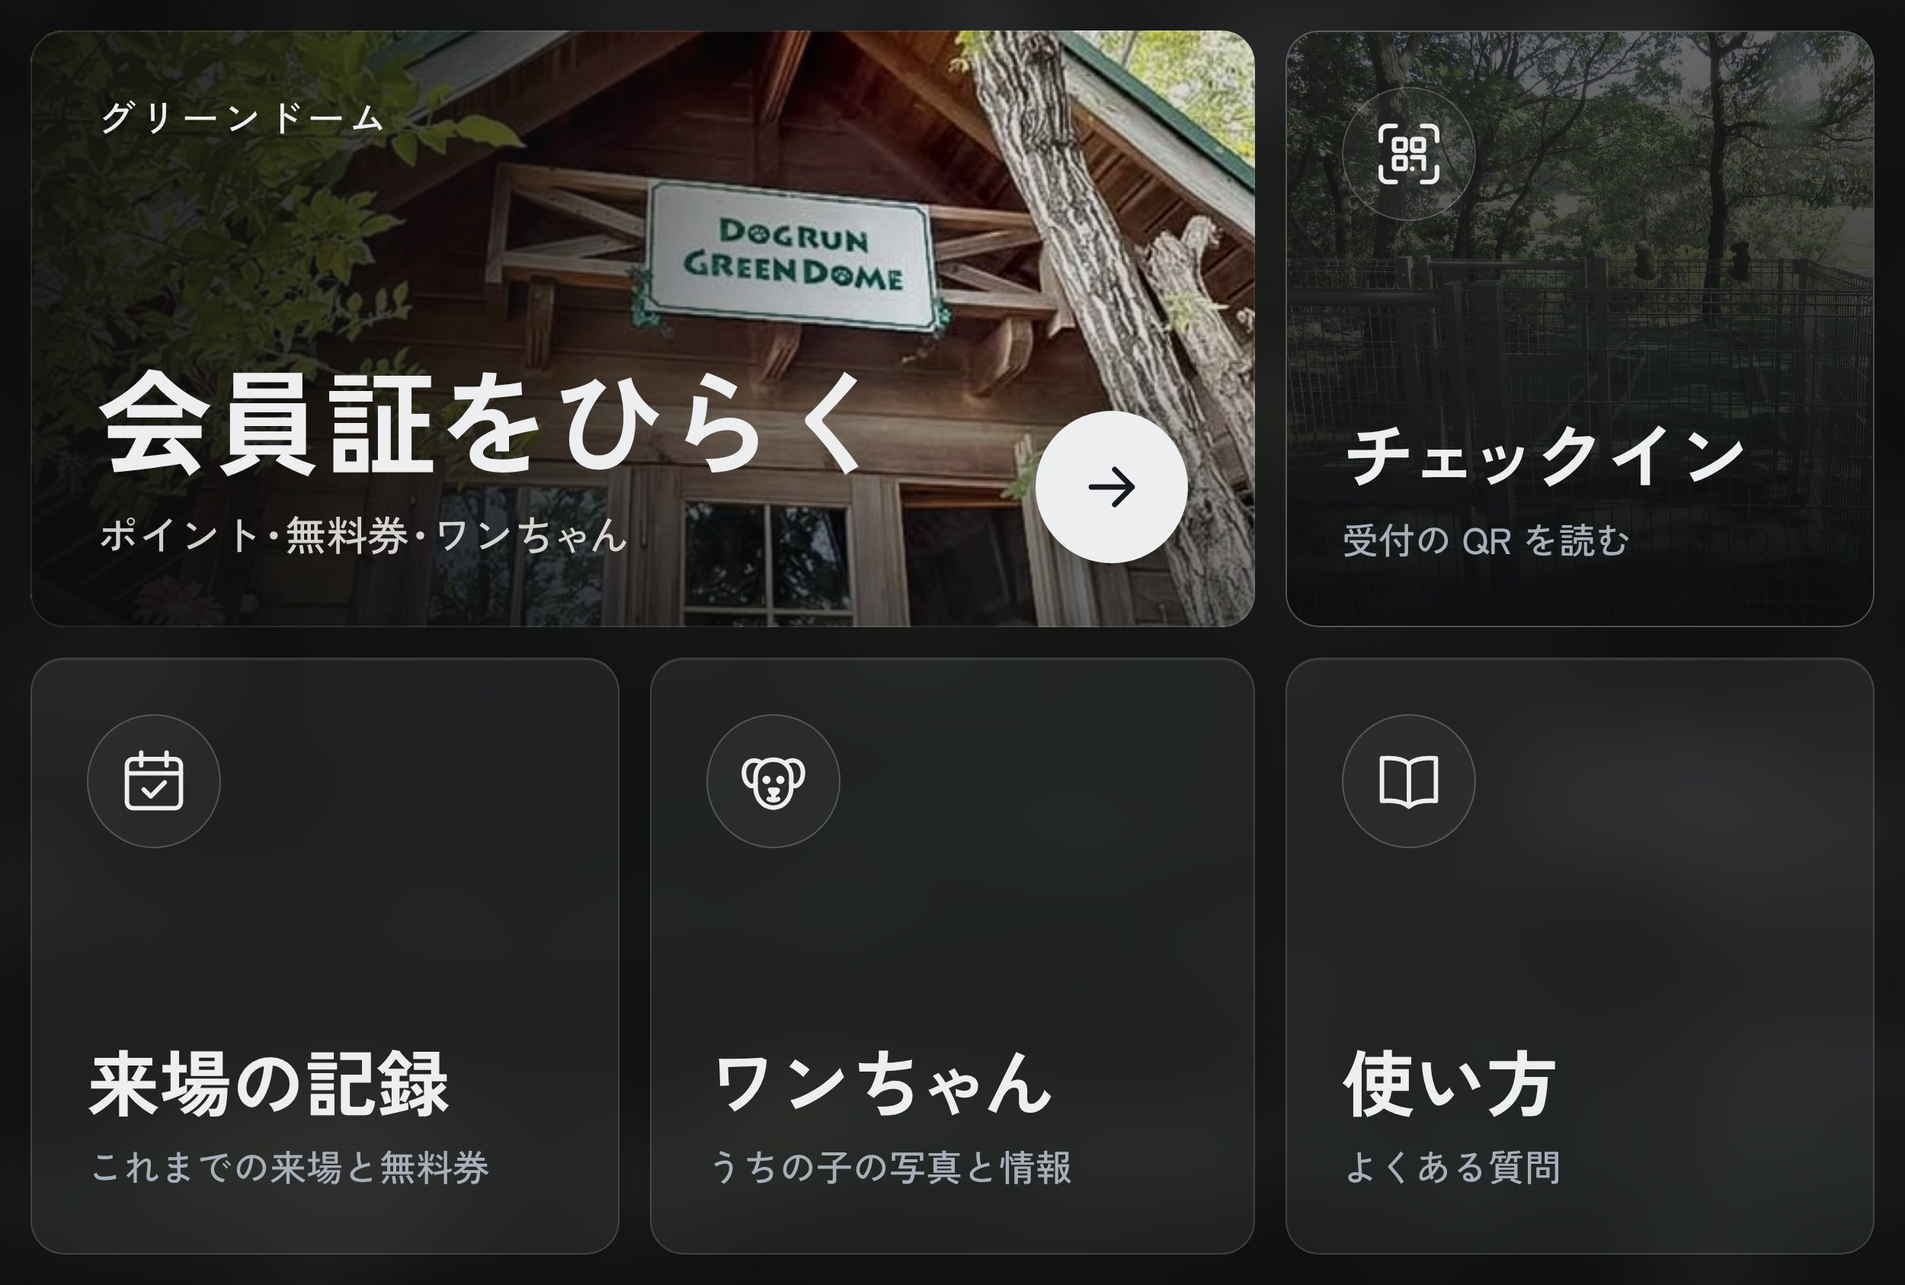
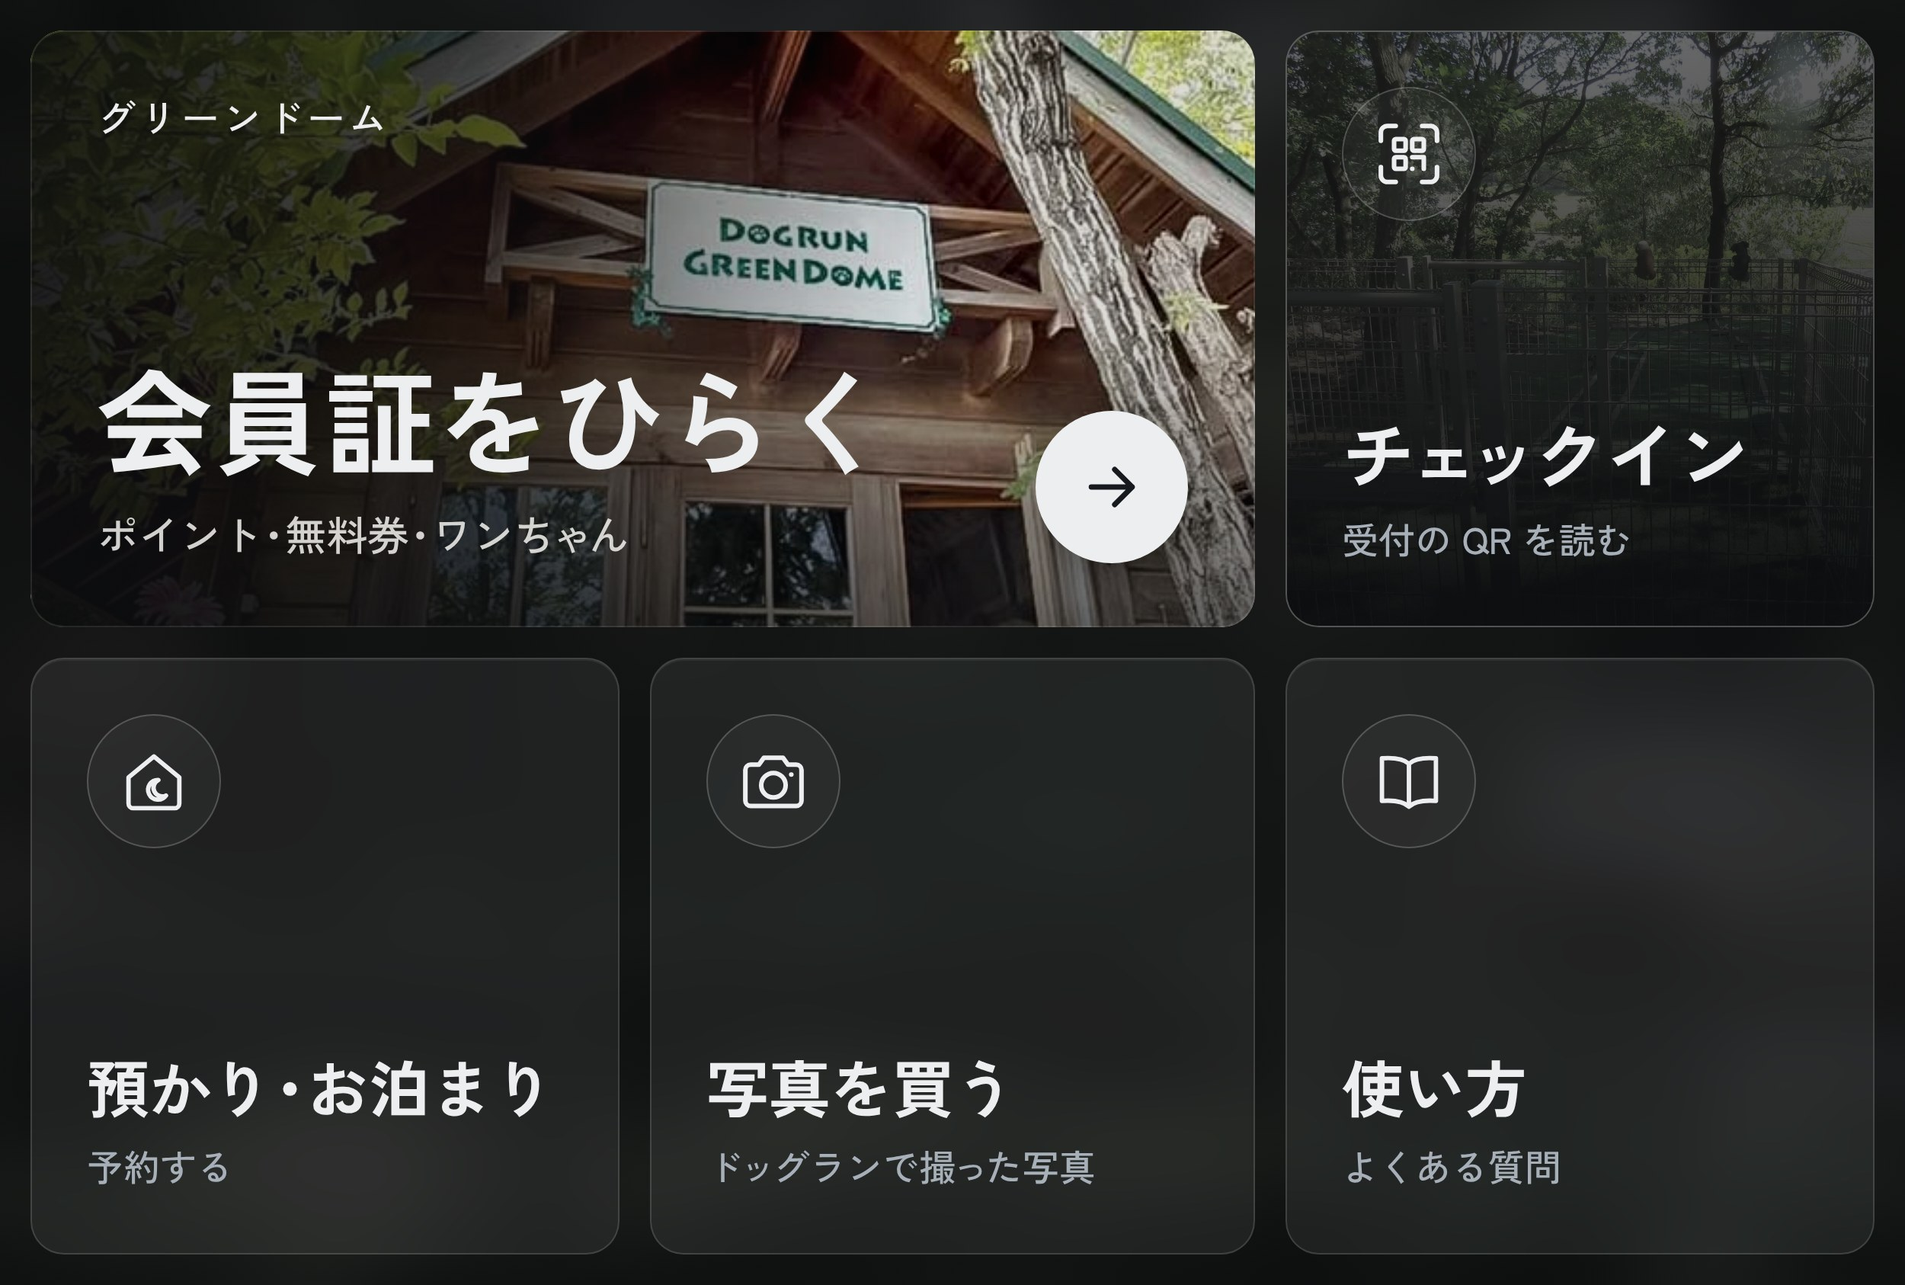
リッチメニューの下の段を「預かり・お泊まり」「写真を買う」「使い方」にする(3 案とも)
- D(下・左)預かり・お泊まり → /bookings/new(予約の入力から始まる)。家と月の線のアイコン
- E(下・まん中)写真を買う → /photos(写真の販売を公開してから使う)。カメラの線のアイコン
- 来場の記録とワンちゃんはメニューから外す(会員証の画面の「来場履歴」「ワンちゃん」から開ける)
- テンプレート(大・6 マス)と A・B(会員証)・C(チェックイン)・F(使い方)は変えない。色は写真と墨色・白・グレーだけ
- 下の段の言葉は「預かり・お泊まり」が 1 行に入る 82px にそろえる。make-richmenu.mjs は、文字がマスからはみ出したら止まる
- richmenu.md: 6 マスの表と URL、いまのメニューの画像と D・E だけを変える手順、写真の画面は公開後に出ることを書く
- デモ: 押せる場所を新しい形に。写真を買うは、写真の販売ができるまで「準備中」の画面を出す(テストも合わせる)

Claude-Session: https://claude.ai/code/session_01CeXocUtpkzvyuQwQbmjHXB

diff --git a/docs/line/alt/dark.html b/docs/line/alt/dark.html
@@ -4,7 +4,7 @@
   LINE の「大」6 マス(3 列 × 2 段)。列の区切り x=833・1667、段の区切り y=843。
   カードは区切りから 20px ずつ内側に置き、区切りの上に 40px のすき間がくるようにしている。
     A+B 会員証(上の左 2 マス)  C チェックイン(上の右)
-    D 来場の記録(下の左)        E ワンちゃん(下のまん中)  F 使い方(下の右)
+    D 預かり・お泊まり(下の左)  E 写真を買う(下のまん中)  F 使い方(下の右)
 -->
 <html lang="ja">
 <head>
@@ -53,6 +53,8 @@
   .tile .top { display: flex; justify-content: space-between; align-items: flex-start; }
   .ic { width: 176px; height: 176px; border-radius: 50%; border: 2px solid rgba(255,255,255,.2); display: grid; place-items: center; background: rgba(255,255,255,.04); }
   .label { font-size: 96px; font-weight: 700; letter-spacing: -.01em; line-height: 1.1; white-space: nowrap; }
+  /* 下の段は「預かり・お泊まり」(8 文字)が 1 行に入る大きさにそろえる */
+  .d .label, .e .label, .f .label { font-size: 82px; }
   .sub { margin-top: 24px; font-size: 48px; font-weight: 500; color: var(--text-2); white-space: nowrap; }
   /* チェックインだけ、少し明るい面にして 2 番目に目立たせる */
   .c.glass { background: rgba(255,255,255,.08); border-color: rgba(255,255,255,.2); }
@@ -91,18 +93,18 @@
   <div class="card glass tile d">
     <div class="in">
       <div class="top">
-        <div class="ic"><svg width="100" height="100" viewBox="0 0 24 24" fill="none" stroke="#ECEEF0" stroke-width="1.4" stroke-linecap="round" stroke-linejoin="round"><rect x="3.5" y="5" width="17" height="15.5" rx="2"/><path d="M3.5 9.5h17M8 3v4M16 3v4"/><path d="m8.8 14.6 2.2 2.2 4.4-4.4"/></svg></div>
+        <div class="ic"><svg width="100" height="100" viewBox="0 0 24 24" fill="none" stroke="#ECEEF0" stroke-width="1.4" stroke-linecap="round" stroke-linejoin="round"><path d="M4 10.8 12 4.2l8 6.6v8.2a1.5 1.5 0 0 1-1.5 1.5h-13A1.5 1.5 0 0 1 4 19z"/><path d="M13.4 11.6a3.1 3.1 0 1 0 2.4 4.9 2.5 2.5 0 0 1-2.4-4.9z"/></svg></div>
       </div>
-      <div><div class="label">来場の記録</div><div class="sub">これまでの来場と無料券</div></div>
+      <div><div class="label">預かり・お泊まり</div><div class="sub">予約する</div></div>
     </div>
   </div>
 
   <div class="card glass tile e">
     <div class="in">
       <div class="top">
-        <div class="ic"><svg width="104" height="104" viewBox="0 0 24 24" fill="none" stroke="#ECEEF0" stroke-width="1.4" stroke-linecap="round" stroke-linejoin="round"><path d="M8.2 6.4C6.6 5.2 4.2 5.6 3.4 7.6c-.7 1.8-.3 4.5 1.3 5.6.8.5 1.6.2 1.9-.5"/><path d="M15.8 6.4c1.6-1.2 4-.8 4.8 1.2.7 1.8.3 4.5-1.3 5.6-.8.5-1.6.2-1.9-.5"/><path d="M6.6 10.6C6.6 7.6 9 5.5 12 5.5s5.4 2.1 5.4 5.1v3.2c0 3.6-2.4 6.2-5.4 6.2s-5.4-2.6-5.4-6.2z"/><circle cx="9.9" cy="11.6" r=".55" fill="#ECEEF0"/><circle cx="14.1" cy="11.6" r=".55" fill="#ECEEF0"/><path d="M11 14.6h2c.3 0 .4.3.2.5l-1 .9-1-.9c-.2-.2-.1-.5.2-.5zM12 16v.9M10.6 17.4c.8.5 2 .5 2.8 0"/></svg></div>
+        <div class="ic"><svg width="104" height="104" viewBox="0 0 24 24" fill="none" stroke="#ECEEF0" stroke-width="1.4" stroke-linecap="round" stroke-linejoin="round"><path d="M3.5 8.6A1.6 1.6 0 0 1 5.1 7h2.5l1.5-2.1h5.8L16.4 7h2.5a1.6 1.6 0 0 1 1.6 1.6v9.3a1.6 1.6 0 0 1-1.6 1.6H5.1a1.6 1.6 0 0 1-1.6-1.6z"/><circle cx="12" cy="13.2" r="3.7"/><path d="M17.4 10h.01"/></svg></div>
       </div>
-      <div><div class="label">ワンちゃん</div><div class="sub">うちの子の写真と情報</div></div>
+      <div><div class="label">写真を買う</div><div class="sub">ドッグランで撮った写真</div></div>
     </div>
   </div>
 

diff --git a/docs/line/richmenu.html b/docs/line/richmenu.html
@@ -4,7 +4,7 @@
   ほかの案は alt/(dark: 夜、warm: ぬくもり)
   LINE の「大」6 マス(3 列 × 2 段)。列の区切り x=833・1667、段の区切り y=843。
     A+B 会員証(上の左 2 マス)  C チェックイン(上の右)
-    D 来場の記録(下の左)        E ワンちゃん(下のまん中)  F 使い方(下の右)
+    D 預かり・お泊まり(下の左)  E 写真を買う(下のまん中)  F 使い方(下の右)
 -->
 <html lang="ja">
 <head>
@@ -58,6 +58,8 @@
   .in2 { position: absolute; inset: 0; z-index: 2; padding: 96px var(--pad) 100px; display: flex; flex-direction: column; justify-content: space-between; }
   .top { display: flex; justify-content: space-between; align-items: flex-start; }
   .label { font-size: 100px; letter-spacing: 0; line-height: 1.1; white-space: nowrap; }
+  /* 下の段は「預かり・お泊まり」(8 文字)が 1 行に入る大きさにそろえる */
+  .d .label, .e .label, .f .label { font-size: 82px; }
   .sub { font-size: 50px; margin-top: 28px; letter-spacing: .03em; color: var(--ink-2); white-space: nowrap; }
 
   .checkin .sub { color: rgba(255,255,255,.84); }
@@ -103,11 +105,11 @@
   <div class="cell tile d">
     <div class="in2">
       <div class="top">
-        <svg width="150" height="150" viewBox="0 0 24 24" fill="none" stroke="#16191D" stroke-width="1.2" stroke-linecap="round" stroke-linejoin="round"><rect x="3.5" y="5" width="17" height="15.5" rx="2"/><path d="M3.5 9.5h17M8 3v4M16 3v4"/><path d="m8.8 14.6 2.2 2.2 4.4-4.4"/></svg>
+        <svg width="150" height="150" viewBox="0 0 24 24" fill="none" stroke="#16191D" stroke-width="1.2" stroke-linecap="round" stroke-linejoin="round"><path d="M4 10.8 12 4.2l8 6.6v8.2a1.5 1.5 0 0 1-1.5 1.5h-13A1.5 1.5 0 0 1 4 19z"/><path d="M13.4 11.6a3.1 3.1 0 1 0 2.4 4.9 2.5 2.5 0 0 1-2.4-4.9z"/></svg>
       </div>
       <div class="bottom">
-        <div class="label mincho">来場の記録</div>
-        <div class="sub">これまでの来場と無料券</div>
+        <div class="label mincho">預かり・お泊まり</div>
+        <div class="sub">予約する</div>
       </div>
     </div>
   </div>
@@ -115,11 +117,11 @@
   <div class="cell tile e">
     <div class="in2">
       <div class="top">
-        <svg width="150" height="150" viewBox="0 0 24 24" fill="none" stroke="#16191D" stroke-width="1.2" stroke-linecap="round" stroke-linejoin="round"><path d="M8.2 6.4C6.6 5.2 4.2 5.6 3.4 7.6c-.7 1.8-.3 4.5 1.3 5.6.8.5 1.6.2 1.9-.5"/><path d="M15.8 6.4c1.6-1.2 4-.8 4.8 1.2.7 1.8.3 4.5-1.3 5.6-.8.5-1.6.2-1.9-.5"/><path d="M6.6 10.6C6.6 7.6 9 5.5 12 5.5s5.4 2.1 5.4 5.1v3.2c0 3.6-2.4 6.2-5.4 6.2s-5.4-2.6-5.4-6.2z"/><circle cx="9.9" cy="11.6" r=".55" fill="#16191D"/><circle cx="14.1" cy="11.6" r=".55" fill="#16191D"/><path d="M11 14.6h2c.3 0 .4.3.2.5l-1 .9-1-.9c-.2-.2-.1-.5.2-.5zM12 16v.9M10.6 17.4c.8.5 2 .5 2.8 0"/></svg>
+        <svg width="150" height="150" viewBox="0 0 24 24" fill="none" stroke="#16191D" stroke-width="1.2" stroke-linecap="round" stroke-linejoin="round"><path d="M3.5 8.6A1.6 1.6 0 0 1 5.1 7h2.5l1.5-2.1h5.8L16.4 7h2.5a1.6 1.6 0 0 1 1.6 1.6v9.3a1.6 1.6 0 0 1-1.6 1.6H5.1a1.6 1.6 0 0 1-1.6-1.6z"/><circle cx="12" cy="13.2" r="3.7"/><path d="M17.4 10h.01"/></svg>
       </div>
       <div class="bottom">
-        <div class="label mincho">ワンちゃん</div>
-        <div class="sub">うちの子の写真と情報</div>
+        <div class="label mincho">写真を買う</div>
+        <div class="sub">ドッグランで撮った写真</div>
       </div>
     </div>
   </div>

diff --git a/docs/line/alt/warm.html b/docs/line/alt/warm.html
@@ -4,7 +4,7 @@
   LINE の「大」6 マス(3 列 × 2 段)。列の区切り x=833・1667、段の区切り y=843。
   カードは区切りから 20px ずつ内側に置き、区切りの上に 40px のすき間がくるようにしている。
     A+B 会員証(上の左 2 マス)  C チェックイン(上の右)
-    D 来場の記録(下の左)        E ワンちゃん(下のまん中)  F 使い方(下の右)
+    D 預かり・お泊まり(下の左)  E 写真を買う(下のまん中)  F 使い方(下の右)
 -->
 <html lang="ja">
 <head>
@@ -48,6 +48,8 @@
   .tile .in { position: absolute; inset: 0; padding: 76px 72px 80px; display: flex; flex-direction: column; justify-content: space-between; }
   .ic { width: 188px; height: 188px; border-radius: 50%; background: var(--sunk); display: grid; place-items: center; position: relative; }
   .label { font-size: 96px; font-weight: 700; line-height: 1.12; white-space: nowrap; }
+  /* 下の段は「預かり・お泊まり」(8 文字)が 1 行に入る大きさにそろえる */
+  .d .label, .e .label, .f .label { font-size: 82px; }
   .sub { margin-top: 22px; font-size: 48px; font-weight: 500; color: var(--ink-2); white-space: nowrap; }
 </style>
 </head>
@@ -74,15 +76,15 @@
 
   <div class="card tile d">
     <div class="in">
-      <div class="ic"><svg width="104" height="104" viewBox="0 0 24 24" fill="none" stroke="#16191D" stroke-width="1.5" stroke-linecap="round" stroke-linejoin="round"><rect x="3.5" y="5" width="17" height="15.5" rx="2.5"/><path d="M3.5 9.5h17M8 3v4M16 3v4"/><path d="m8.8 14.6 2.2 2.2 4.4-4.4"/></svg></div>
-      <div><div class="label">来場の記録</div><div class="sub">これまでの来場と無料券</div></div>
+      <div class="ic"><svg width="104" height="104" viewBox="0 0 24 24" fill="none" stroke="#16191D" stroke-width="1.5" stroke-linecap="round" stroke-linejoin="round"><path d="M4 10.8 12 4.2l8 6.6v8.2a1.5 1.5 0 0 1-1.5 1.5h-13A1.5 1.5 0 0 1 4 19z"/><path d="M13.4 11.6a3.1 3.1 0 1 0 2.4 4.9 2.5 2.5 0 0 1-2.4-4.9z"/></svg></div>
+      <div><div class="label">預かり・お泊まり</div><div class="sub">予約する</div></div>
     </div>
   </div>
 
   <div class="card tile e">
     <div class="in">
-      <div class="ic"><svg width="112" height="112" viewBox="0 0 24 24" fill="none" stroke="#16191D" stroke-width="1.5" stroke-linecap="round" stroke-linejoin="round"><path d="M8.2 6.4C6.6 5.2 4.2 5.6 3.4 7.6c-.7 1.8-.3 4.5 1.3 5.6.8.5 1.6.2 1.9-.5"/><path d="M15.8 6.4c1.6-1.2 4-.8 4.8 1.2.7 1.8.3 4.5-1.3 5.6-.8.5-1.6.2-1.9-.5"/><path d="M6.6 10.6C6.6 7.6 9 5.5 12 5.5s5.4 2.1 5.4 5.1v3.2c0 3.6-2.4 6.2-5.4 6.2s-5.4-2.6-5.4-6.2z"/><circle cx="9.9" cy="11.6" r=".6" fill="#16191D"/><circle cx="14.1" cy="11.6" r=".6" fill="#16191D"/><path d="M11 14.6h2c.3 0 .4.3.2.5l-1 .9-1-.9c-.2-.2-.1-.5.2-.5zM12 16v.9M10.6 17.4c.8.5 2 .5 2.8 0"/></svg></div>
-      <div><div class="label">ワンちゃん</div><div class="sub">うちの子の写真と情報</div></div>
+      <div class="ic"><svg width="112" height="112" viewBox="0 0 24 24" fill="none" stroke="#16191D" stroke-width="1.5" stroke-linecap="round" stroke-linejoin="round"><path d="M3.5 8.6A1.6 1.6 0 0 1 5.1 7h2.5l1.5-2.1h5.8L16.4 7h2.5a1.6 1.6 0 0 1 1.6 1.6v9.3a1.6 1.6 0 0 1-1.6 1.6H5.1a1.6 1.6 0 0 1-1.6-1.6z"/><circle cx="12" cy="13.2" r="3.7"/><path d="M17.4 10h.01"/></svg></div>
+      <div><div class="label">写真を買う</div><div class="sub">ドッグランで撮った写真</div></div>
     </div>
   </div>
 

diff --git a/apps/demo/src/App.tsx b/apps/demo/src/App.tsx
@@ -6,7 +6,7 @@ import { loadSqlJs } from './engine/sqljs';
 import { makeCardBackground, makeDogPhoto } from './seed/art';
 import { ACCOUNTS, DEMO_PASSWORD, STAFF } from './seed/fixtures';
 import { SCENES } from './scenes';
-import { LiffBar, LineTalk } from './LineTalk';
+import { LiffBar, LineTalk, PhotosSoon } from './LineTalk';
 
 type Account = { userId: string; name: string };
 type Talk = { id: number; from: string; text: string; at: string };
@@ -123,7 +123,7 @@ function Demo({ engine }: { engine: DemoEngine }) {
   const [, setTick] = useState(0);
   const [phone, setPhone] = useState<{ route: string; key: number }>({ route: '/', key: 0 });
   // LINE のトーク画面を出しているか / トーク画面のリッチメニューから開いたか(上に LINE の帯を出す)
-  const [lineView, setLineView] = useState<'app' | 'talk' | 'liff'>('app');
+  const [lineView, setLineView] = useState<'app' | 'talk' | 'liff' | 'photos'>('app');
   const [admin, setAdmin] = useState<{ route: string; key: number }>({ route: '/', key: 0 });
   const [status, setStatus] = useState('');
   const [busy, setBusy] = useState(false);
@@ -192,8 +192,13 @@ function Demo({ engine }: { engine: DemoEngine }) {
     setLineView('app');
     setPhone((p) => ({ route, key: p.key + 1 }));
   };
-  /** リッチメニューから開く(LINE の中で開いたように、上に LINE の帯を出す)。チェックインは受付の QR を読んだことにする */
+  /** リッチメニューから開く(LINE の中で開いたように、上に LINE の帯を出す)。チェックインは受付の QR を読んだことにする。
+   * 写真を買う(photos)は、写真の販売ができるまで準備中の画面を出す */
   const openFromRichMenu = (route: string) => {
+    if (route === 'photos') {
+      setLineView('photos');
+      return;
+    }
     const r = route === 'checkin' ? `/checkin?k=${encodeURIComponent(engine.passphrase())}` : route;
     setPhone((p) => ({ route: r, key: p.key + 1 }));
     setLineView('liff');
@@ -426,6 +431,11 @@ function Demo({ engine }: { engine: DemoEngine }) {
           <div className="phone">
             {lineView === 'talk' ? (
               <LineTalk facility="グリーンドーム" onOpen={openFromRichMenu} notices={bookingNotices(account.userId)} />
+            ) : lineView === 'photos' ? (
+              <>
+                <LiffBar title="グリーンドーム 写真" onClose={() => setLineView('talk')} />
+                <PhotosSoon />
+              </>
             ) : (
               <>
             {lineView === 'liff' && <LiffBar title="グリーンドーム 会員証" onClose={() => setLineView('talk')} />}

diff --git a/apps/demo/src/LineTalk.tsx b/apps/demo/src/LineTalk.tsx
@@ -5,8 +5,9 @@ export const RICH_MENU_AREAS = [
   // LINE の「大」6 マス(列の区切り x=833・1667、段の区切り y=843)。会員証は上の左 2 マス(A・B)
   { label: '会員証', route: '/', x: 0, y: 0, w: 1667, h: 843 },
   { label: 'チェックイン', route: 'checkin', x: 1667, y: 0, w: 833, h: 843 },
-  { label: '来場の記録', route: '/history', x: 0, y: 843, w: 833, h: 843 },
-  { label: 'ワンちゃん', route: '/dogs', x: 833, y: 843, w: 834, h: 843 },
+  { label: '預かり・お泊まり', route: '/bookings/new', x: 0, y: 843, w: 833, h: 843 },
+  // 写真の販売(/photos)はまだ LIFF にないので、デモでは「準備中」の画面を出す(PhotosSoon)
+  { label: '写真を買う', route: 'photos', x: 833, y: 843, w: 834, h: 843 },
   { label: '使い方', route: '/help', x: 1667, y: 843, w: 833, h: 843 },
 ] as const;
 
@@ -99,6 +100,20 @@ export function LiffBar({ title, onClose }: { title: string; onClose: () => void
       <button type="button" aria-label="閉じて LINE のトークに戻る" onClick={onClose}>
         ×
       </button>
+    </div>
+  );
+}
+
+/** 写真の販売(リッチメニューの「写真を買う」)。まだできていないので、デモでは準備中の画面を出す */
+export function PhotosSoon() {
+  return (
+    <div className="lt-soon" role="region" aria-label="写真を買う(準備中)">
+      <svg width="40" height="40" viewBox="0 0 24 24" fill="none" stroke="currentColor" strokeWidth="1.5" strokeLinecap="round" strokeLinejoin="round" aria-hidden="true">
+        <path d="M3.5 8.6A1.6 1.6 0 0 1 5.1 7h2.5l1.5-2.1h5.8L16.4 7h2.5a1.6 1.6 0 0 1 1.6 1.6v9.3a1.6 1.6 0 0 1-1.6 1.6H5.1a1.6 1.6 0 0 1-1.6-1.6z" />
+        <circle cx="12" cy="13.2" r="3.7" />
+      </svg>
+      <h2>写真の販売は準備中です</h2>
+      <p>ドッグランで撮った写真を、ここから選んで買えるようになります。始まったら、このトークでお知らせします。</p>
     </div>
   );
 }

diff --git a/apps/demo/src/styles.css b/apps/demo/src/styles.css
@@ -409,6 +409,9 @@ iframe:focus-visible {
 .lt-liffbar { display: flex; align-items: center; justify-content: space-between; height: 40px; padding: 0 6px 0 14px; background: #FFFFFF; border-bottom: 1px solid #E3E6EA; color: #111315; font-size: 13px; }
 .lt-liff-title { font-weight: 600; }
 .lt-liffbar button { width: 40px; height: 40px; border: 0; background: transparent; font-size: 22px; color: #111315; cursor: pointer; }
+.lt-soon { height: 660px; display: flex; flex-direction: column; align-items: flex-start; justify-content: center; gap: 12px; padding: 0 28px; background: #FFFFFF; color: #16191D; }
+.lt-soon h2 { margin: 4px 0 0; font-size: 20px; font-weight: 600; font-feature-settings: "palt"; }
+.lt-soon p { margin: 0; font-size: 15px; line-height: 1.55; color: #5B6470; }
 .phone .lt-liffbar + iframe { height: 660px; }
 /* 3 つ並べると「LINE のト/ーク画面」のように切れる(左の列は 404px)ので、1 列に並べる */
 .launch.three { grid-template-columns: 1fr; max-width: 404px; }

diff --git a/apps/demo/test/richmenu.test.ts b/apps/demo/test/richmenu.test.ts
@@ -21,6 +21,12 @@ describe('デモのリッチメニュー', () => {
   it('会員証は上の段の左 2 マス(A・B)をまとめた一番大きな場所で、ほかは 1 マスずつ', () => {
     const card = RICH_MENU_AREAS.find((a) => a.label === '会員証');
     expect(card).toMatchObject({ x: 0, y: 0, w: 1667, h: 843, route: '/' });
-    expect(RICH_MENU_AREAS.map((a) => a.label)).toEqual(['会員証', 'チェックイン', '来場の記録', 'ワンちゃん', '使い方']);
+    expect(RICH_MENU_AREAS.map((a) => [a.label, a.route])).toEqual([
+      ['会員証', '/'],
+      ['チェックイン', 'checkin'],
+      ['預かり・お泊まり', '/bookings/new'],
+      ['写真を買う', 'photos'],
+      ['使い方', '/help'],
+    ]);
   });
 });
